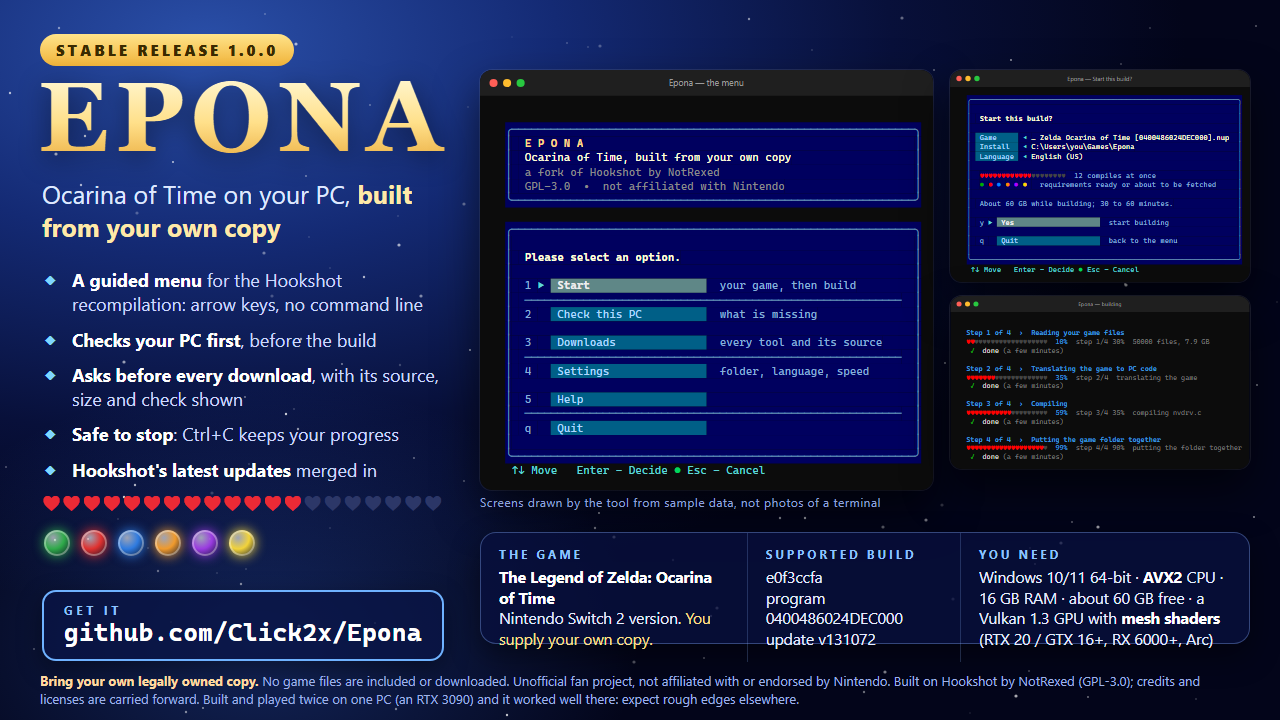
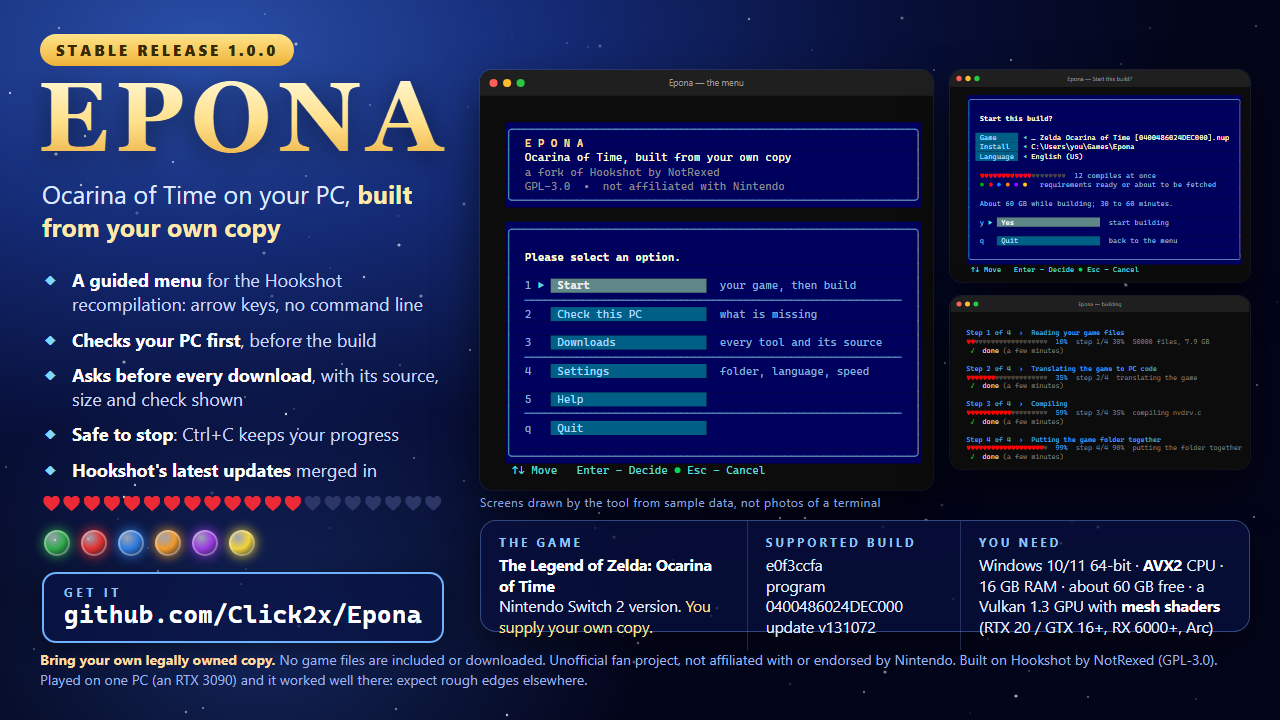
docs: fix the flyer's link box and footer spacing; add a private game-screenshots flyer option

Changed region(s): [[0.0312, 0.7028, 1.0, 0.9778]]

diff --git a/scripts/make_announcement.py b/scripts/make_announcement.py
@@ -39,7 +39,7 @@ def stars(n=150):
     return '<svg class="abs" width="1280" height="720" viewBox="0 0 1280 720">%s</svg>' % dots
 
 
-def page(link):
+def page(link, shots=None):
     home_w, home_h = svg_size("01-home.svg")
     conf_w, conf_h = svg_size("04-confirm.svg")
     prog_w, prog_h = svg_size("05-progress.svg")
@@ -74,18 +74,18 @@ ul.bul b{color:#fff}
 .med{left:44px;top:530px;display:flex;gap:11px}
 .med i{display:block;width:26px;height:26px;border-radius:50%;background:radial-gradient(circle at 35% 30%,#fff9,var(--c) 45%,#0006 100%);
 box-shadow:0 0 12px var(--c),inset 0 0 0 2px rgba(255,255,255,.35)}
-.link{position:absolute;left:42px;top:590px;width:auto;max-width:420px;padding:10px 20px 12px;border-radius:14px;background:rgba(10,20,70,.75);border:2px solid #6fb2ff;box-shadow:0 8px 24px rgba(0,0,0,.4)}
+.link{position:absolute;left:42px;top:572px;width:auto;max-width:420px;padding:10px 20px 12px;border-radius:14px;background:rgba(10,20,70,.75);border:2px solid #6fb2ff;box-shadow:0 8px 24px rgba(0,0,0,.4)}
 .link small{display:block;font-size:12px;letter-spacing:.3em;color:#8fc4ff;font-weight:700}
 .link b{font-family:"Cascadia Mono",Consolas,monospace;font-size:25px;color:#fff;letter-spacing:.01em}
 .link.draft{border-style:dashed;border-color:#ffb347}.link.draft b{color:#ffd28a;font-family:"Segoe UI",sans-serif;font-style:italic}
 .shot{border-radius:12px;box-shadow:0 20px 44px rgba(0,0,0,.6),0 0 0 1px rgba(255,255,255,.1)}
 .cap{font-size:12px;color:#8fa2d8;letter-spacing:.04em}
-.strip{left:480px;top:532px;width:770px;height:112px;border-radius:16px;background:rgba(8,16,62,.78);border:1px solid rgba(140,180,255,.35);
+.strip{left:480px;top:520px;width:770px;height:112px;border-radius:16px;background:rgba(8,16,62,.78);border:1px solid rgba(140,180,255,.35);
 display:grid;grid-template-columns:1.25fr 1fr 1.35fr;gap:0;box-shadow:0 12px 30px rgba(0,0,0,.45)}
 .strip>div{padding:13px 18px;border-right:1px solid rgba(140,180,255,.22)}.strip>div:last-child{border-right:0}
 .strip h3{margin:0 0 5px;font-size:12px;letter-spacing:.24em;color:#8fc4ff;font-weight:700}
 .strip p{margin:0;font-size:15.5px;line-height:1.33;color:#e6edff}.strip p b{color:#fff}.strip em{font-style:normal;color:#ffe08a}
-.foot{left:40px;right:40px;top:672px;font-size:13px;line-height:1.35;color:#9fb1e6}
+.foot{left:40px;right:40px;top:650px;font-size:14px;line-height:1.4;color:#9fb1e6}
 .foot b{color:#ffd9a0}
 </style>
 <div class="glow"></div>
@@ -103,18 +103,30 @@ display:grid;grid-template-columns:1.25fr 1fr 1.35fr;gap:0;box-shadow:0 12px 30p
 <div class="abs meter">@@hearts@@</div>
 <div class="abs med">@@medallions@@</div>
 @@linkbox@@
-<img class="abs shot" src="../screens/01-home.svg" style="left:480px;top:70px;height:@@hh@@px;width:@@hw@@px">
-<img class="abs shot" src="../screens/04-confirm.svg" style="left:950px;top:70px;width:@@cw@@px;height:@@ch@@px">
-<img class="abs shot" src="../screens/05-progress.svg" style="left:950px;top:@@py@@px;width:@@cw@@px;height:@@ph@@px">
-<div class="abs cap" style="left:480px;top:494px">Screens drawn by the tool from sample data, not photos of a terminal</div>
+@@screens@@
 <div class="abs strip">
 <div><h3>THE GAME</h3><p><b>The Legend of Zelda: Ocarina of Time</b><br>Nintendo Switch 2 version. <em>You supply your own copy.</em></p></div>
 <div><h3>SUPPORTED BUILD</h3><p>e0f3ccfa<br>program 0400486024DEC000<br>update v131072</p></div>
 <div><h3>YOU NEED</h3><p>Windows 10/11 64-bit &middot; <b>AVX2</b> CPU &middot; 16 GB RAM &middot; about 60 GB free &middot; a Vulkan 1.3 GPU with <b>mesh shaders</b> (RTX 20 / GTX 16+, RX 6000+, Arc)</p></div>
 </div>
 <div class="abs foot"><b>Bring your own legally owned copy.</b> No game files are included or downloaded. Unofficial fan project, not affiliated with or endorsed by Nintendo.
-Built on Hookshot by NotRexed (GPL-3.0); credits and licenses are carried forward. Built and played twice on one PC (an RTX 3090) and it worked well there: expect rough edges elsewhere.</div>
+Built on Hookshot by NotRexed (GPL-3.0). Played on one PC (an RTX 3090) and it worked well there: expect rough edges elsewhere.</div>
 """
+    if shots:   # (two game screenshots on top, the tool's own screens below; the game's pictures are linked, never copied into the repo)
+        cut = ".shot{object-fit:cover;object-position:left top}"   # (keeps the left 77%: no corner overlays or watermarks on the right)
+        screens = ('<style>%s</style>' % cut +
+                   ''.join('<img class="abs shot" src="%s" style="left:%dpx;top:70px;width:372px;height:272px">' % (Path(f).resolve().as_uri(), x)
+                           for f, x in zip(shots, (480, 868))) +
+                   '<div class="abs cap" style="left:480px;top:346px">Running on an RTX 3090 PC: the title screen and Kokiri Forest, from a build made with Epona</div>' +
+                   '<img class="abs shot" src="../screens/01-home.svg" style="left:480px;top:372px;height:134px;width:%dpx">' % int(home_w * 134 / home_h) +
+                   '<img class="abs shot" src="../screens/04-confirm.svg" style="left:%dpx;top:372px;height:134px;width:%dpx">' % (480 + int(home_w * 134 / home_h) + 14, int(conf_w * 134 / conf_h)) +
+                   '<img class="abs shot" src="../screens/05-progress.svg" style="left:%dpx;top:372px;height:134px;width:%dpx">' % (480 + int(home_w * 134 / home_h) + int(conf_w * 134 / conf_h) + 28, int(prog_w * 134 / prog_h)))
+    else:
+        screens = ('<img class="abs shot" src="../screens/01-home.svg" style="left:480px;top:70px;height:@@hh@@px;width:@@hw@@px">'
+                   '<img class="abs shot" src="../screens/04-confirm.svg" style="left:950px;top:70px;width:@@cw@@px;height:@@ch@@px">'
+                   '<img class="abs shot" src="../screens/05-progress.svg" style="left:950px;top:@@py@@px;width:@@cw@@px;height:@@ph@@px">'
+                   '<div class="abs cap" style="left:480px;top:494px">Screens drawn by the tool from sample data, not photos of a terminal</div>')
+    template = template.replace("@@screens@@", screens)
     values = dict(stars=stars(), hearts=hearts, medallions=medallions, linkbox=linkbox, hh=hh, hw=int(home_w * hh / home_h), cw=cw_,
                   ch=int(conf_h * cw_ / conf_w), py=70 + int(conf_h * cw_ / conf_w) + 14, ph=int(prog_h * cw_ / prog_w))
     for key, value in values.items():
@@ -125,14 +137,16 @@ Built on Hookshot by NotRexed (GPL-3.0); credits and licenses are carried forwar
 def main():
     ap = argparse.ArgumentParser(description=__doc__.split("\n")[0])
     ap.add_argument("--link", help="the address to show, for example github.com/your-name/Epona (without it a dashed placeholder is drawn)")
+    ap.add_argument("--shots", nargs=2, metavar="PNG", help="two screenshots of the running game for a Discord version (it shows Nintendo's artwork: "
+                    "written as ...-GAME.png, which git ignores, and never added to the repository)")
     ap.add_argument("--out", help="where to write the PNG (default: docs/img/epona-announcement.png, or ...-DRAFT.png without --link)")
     a = ap.parse_args()
-    a.out = a.out or str(OUT / ("epona-announcement.png" if a.link else "epona-announcement-DRAFT.png"))
+    a.out = a.out or str(OUT / ("epona-announcement-GAME.png" if a.shots else "epona-announcement.png" if a.link else "epona-announcement-DRAFT.png"))
     if not SCREENS.is_dir() or not (SCREENS / "01-home.svg").exists():
         sys.exit("docs/screens is missing: run  py -I scripts/render_screens.py  first")
     OUT.mkdir(parents=True, exist_ok=True)
     html_path = OUT / "announcement.html"
-    html_path.write_text(page(a.link), encoding="utf-8", newline="\n")
+    html_path.write_text(page(a.link, a.shots), encoding="utf-8", newline="\n")
     edge = next((e for e in EDGES if os.path.isfile(e)), None)
     if not edge:
         sys.exit("Microsoft Edge was not found; open %s in any browser and screenshot it at 1280x720" % html_path)
